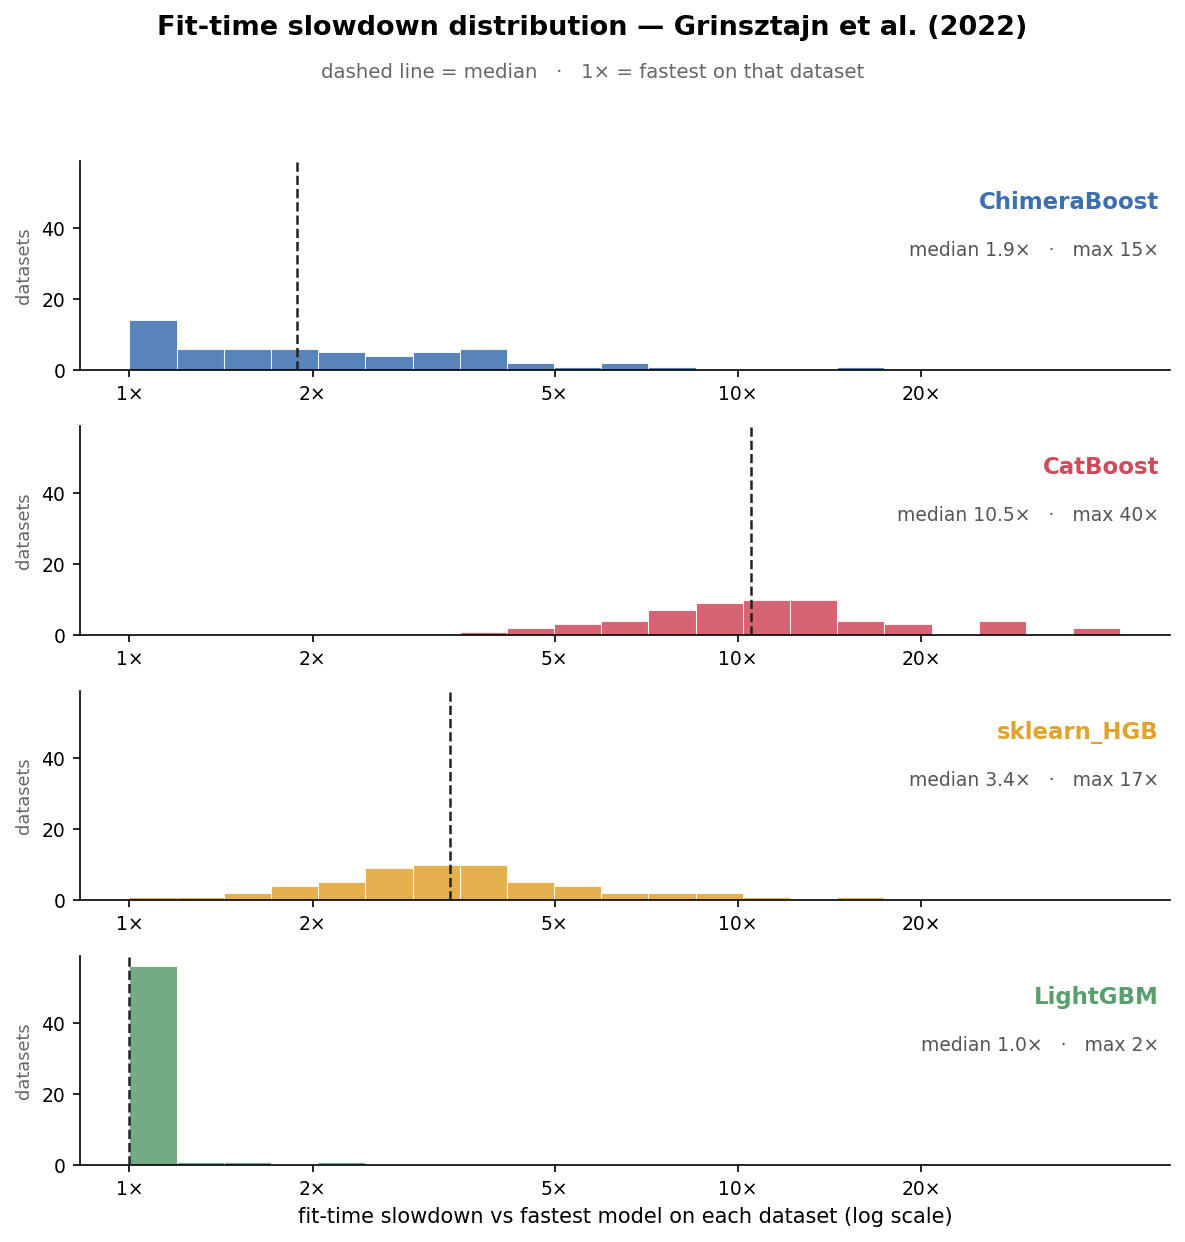
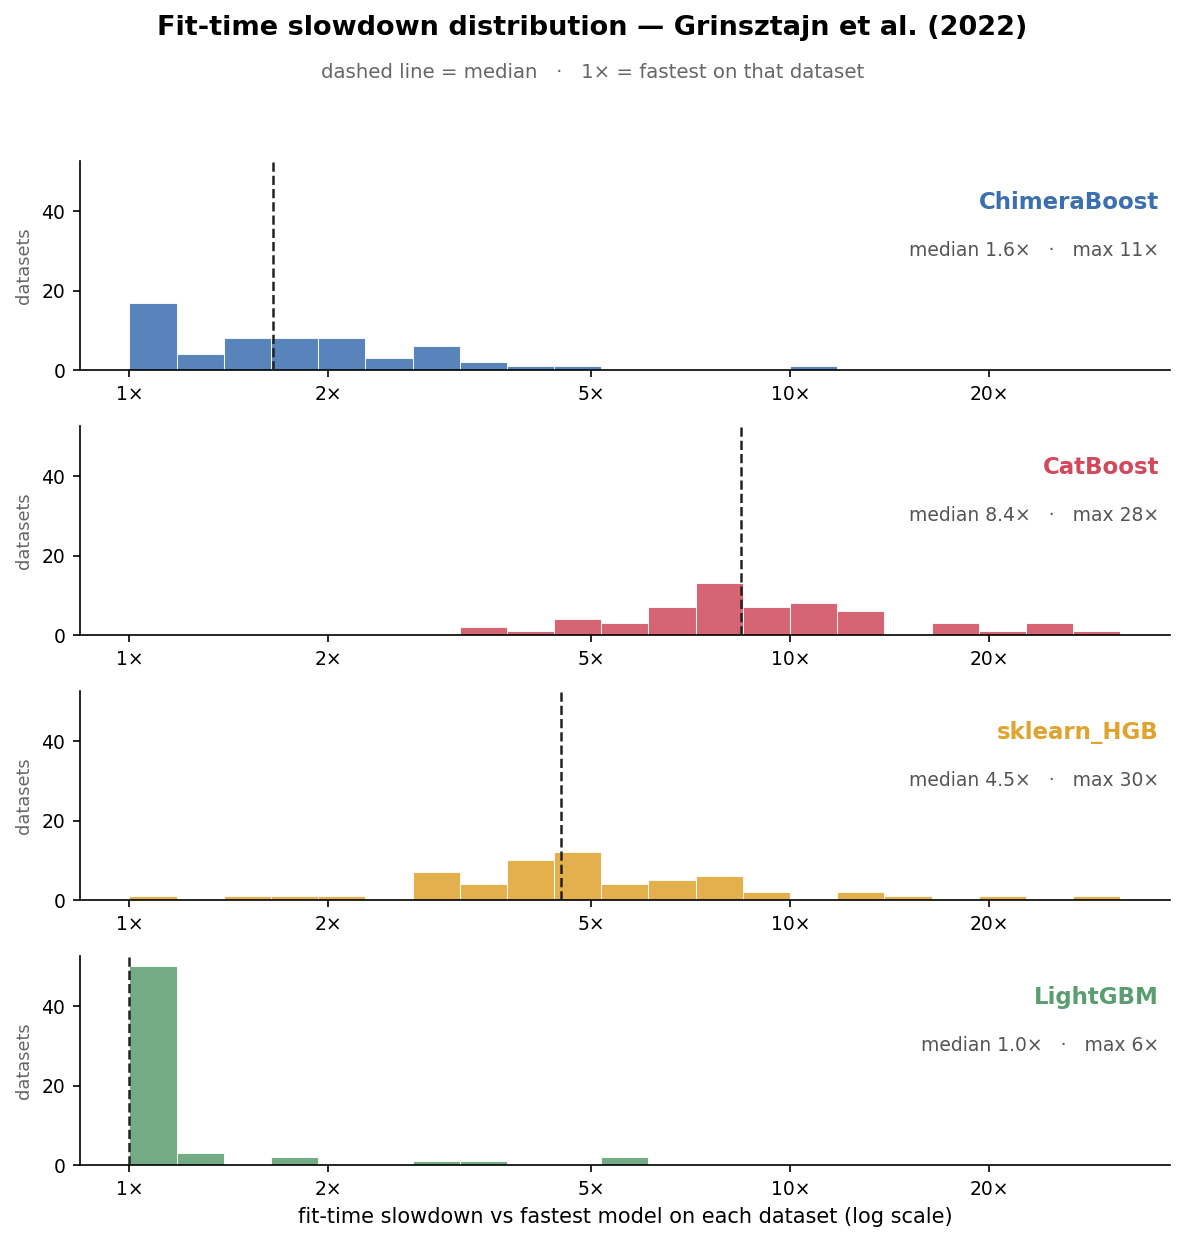
Bump to 0.9.2; update benchmark images and README
Reflects l2_leaf_reg 3.0->1.0 default: Bin Brier 95.7%->97.2% (+1.5pp),
now within 0.5pp of CatBoost/sklearn/LightGBM. README headline updated.

diff --git a/README.md b/README.md
@@ -45,7 +45,7 @@ python benchmarks/run_benchmarks.py --grinsztajn --save
         * Automatic early stopping, with automatic grouped splitting for the validation set available
     * Supports regression, quantile regression, binary and multiclass classification.
     * Categorical features, sample weights, and automatic early stopping
-    * Matches CatBoost within ~0.5% F1 and ~2% RMSE (% of best) on the 59-dataset Grinsztajn (2022) tabular benchmark, at ~5× the speed
+    * Matches CatBoost within ~0.5% F1, ~0.5% Brier, and ~2% RMSE (% of best) on the 59-dataset Grinsztajn (2022) tabular benchmark, at ~5× the speed
 
 * **Why?**
     * I want to be able to modify my GBDT library at will